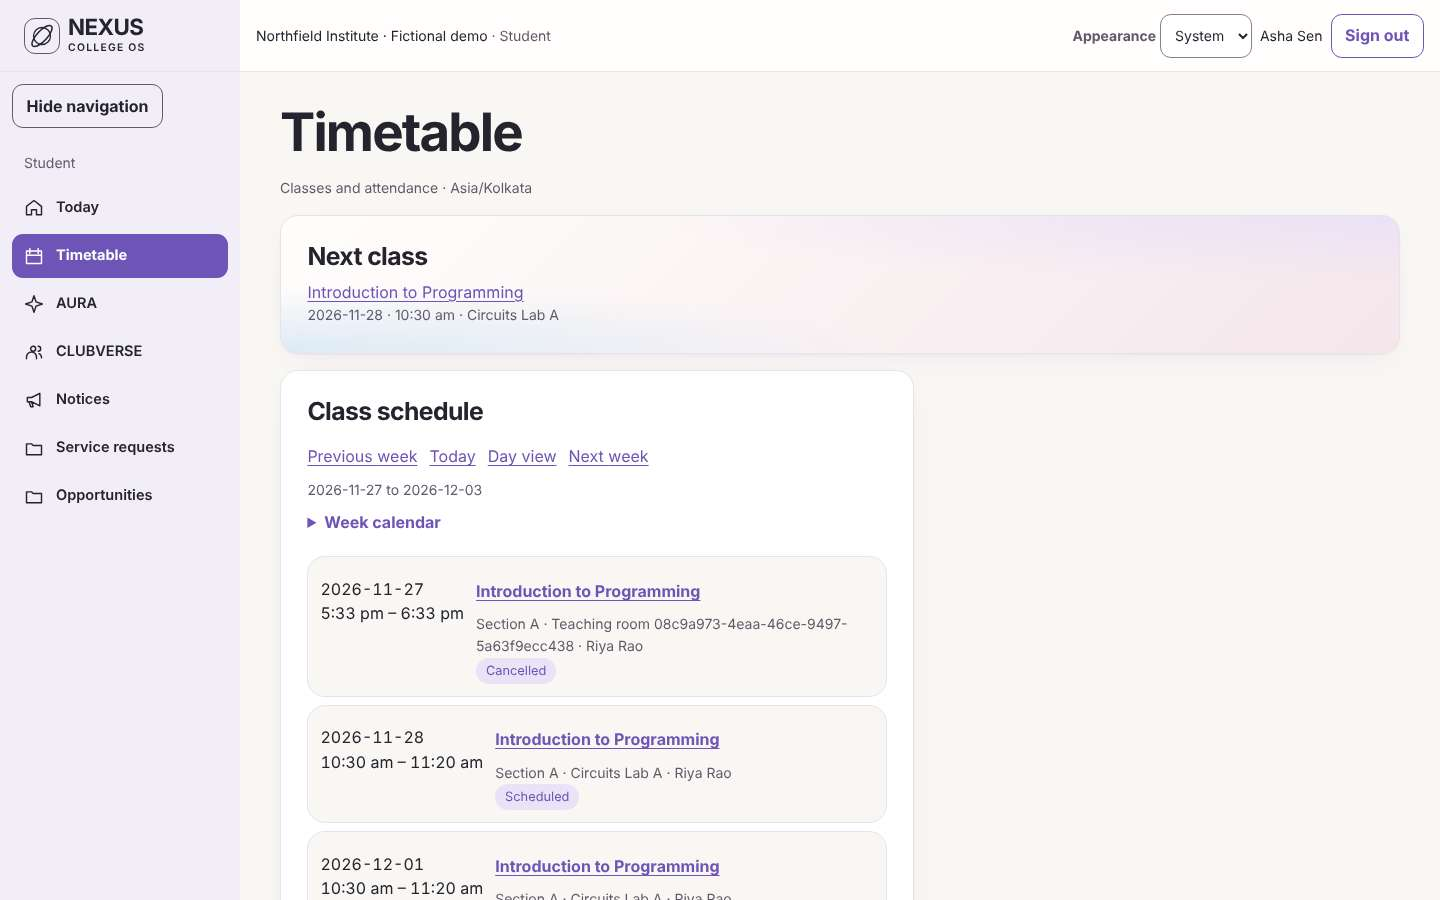
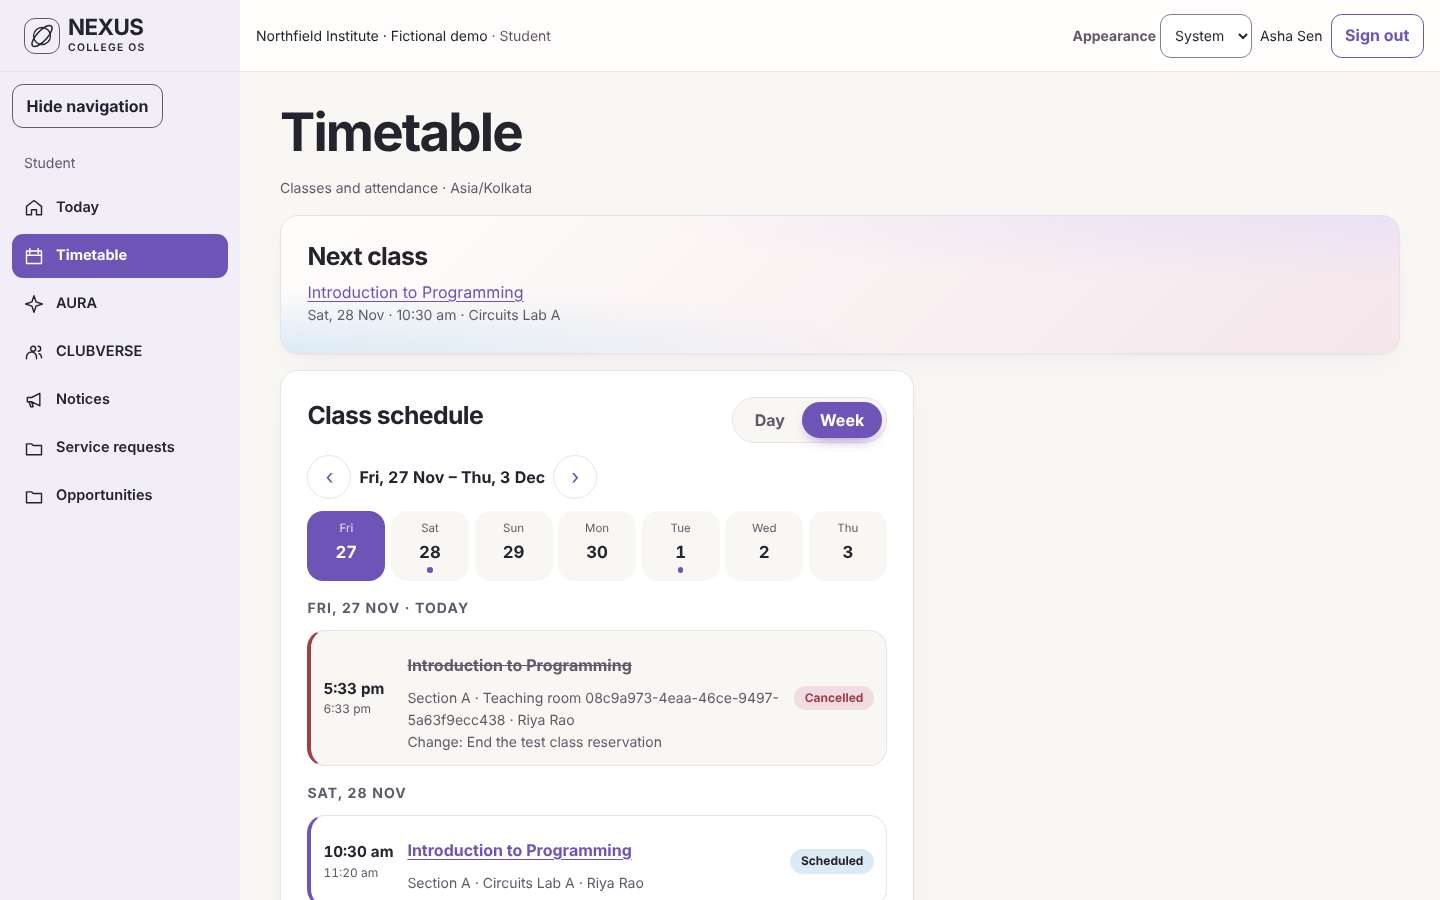
Rebuild the timetable around Board 03
Segmented day/week view, period stepper with readable dates, a seven-day
strip, a day-grouped time rail with explicit Now, cancelled, recorded and
draft states, and attendance rings with the planning target. URLs and
actions are unchanged.

Claude-Session: https://claude.ai/code/session_01Bxb4YCdiCMxcF1SCBS14xH

diff --git a/app/timetable/page.tsx b/app/timetable/page.tsx
@@ -11,6 +11,7 @@ import { planningOptions } from "../../lib/attendance-planning";
 import { AttendanceForecast } from "./forecast";
 import { timetableAction } from "./actions";
 import styles from "./timetable.module.css";
+import { ProgressRing } from "../experience/progress-ring";
 
 export default async function Timetable({searchParams}:{searchParams:Promise<Record<string,string|undefined>>}) {
   const params = await searchParams;
@@ -41,49 +42,60 @@ export default async function Timetable({searchParams}:{searchParams:Promise<Rec
     return `${date.format(instant)}T${clock.format(instant)}`;
   };
   const stateLabel = {draft:"Draft",published:"Scheduled",cancelled:"Cancelled",conducted:"Attendance recorded"};
+  const label = (localDay:string) => new Intl.DateTimeFormat("en-IN",{weekday:"short",day:"numeric",month:"short",timeZone:"UTC"}).format(new Date(localDay));
+  const now = new Date();
+  const groups = [...Map.groupBy(sessions, session => date.format(session.start))];
   return <Chrome user={user} current={current} section="/timetable"><div className={styles.page}>
     <header className={styles.hero}><h1>Timetable</h1><p className="meta">Classes and attendance · {timezone}</p></header>
     {upcoming && <section className={`panel ${styles.next}`} aria-labelledby="next-class">
       <h2 id="next-class">{upcoming.start<=new Date() ? "Class in progress" : "Next class"}</h2>
       <Link href={sessionLink(upcoming.id)}>{upcoming.course}</Link>
-      <p className="meta">{date.format(upcoming.start)} · {time.format(upcoming.start)} · {upcoming.room}</p>
+      <p className="meta">{label(date.format(upcoming.start))} · {time.format(upcoming.start)} · {upcoming.room}</p>
     </section>}
 
     <div className={styles.planner}>
       <section className="panel" aria-labelledby="class-schedule">
-        <h2 id="class-schedule">Class schedule</h2>
-        <nav className="row" aria-label="Timetable period">
-          <Link href={`${base}&day=${offset(-days)}&view=${days===1?"day":"week"}`}>Previous {days===1?"day":"week"}</Link>
-          <Link href={`${base}&day=${today}&view=day`}>Today</Link>
-          <Link href={`${base}&day=${day}&view=${days===1?"week":"day"}`}>{days===1?"Week view":"Day view"}</Link>
-          <Link href={`${base}&day=${offset(days)}&view=${days===1?"day":"week"}`}>Next {days===1?"day":"week"}</Link>
+        <div className={styles.scheduleHead}>
+          <h2 id="class-schedule">Class schedule</h2>
+          <nav className={styles.segmented} aria-label="Timetable view">
+            <Link href={`${base}&day=${day}&view=day`} aria-label="Day view" aria-current={days===1 ? "page" : undefined}>Day</Link>
+            <Link href={`${base}&day=${day}&view=week`} aria-label="Week view" aria-current={days===7 ? "page" : undefined}>Week</Link>
+          </nav>
+        </div>
+        <nav className={styles.period} aria-label="Timetable period">
+          <Link href={`${base}&day=${offset(-days)}&view=${days===1?"day":"week"}`} aria-label={`Previous ${days===1?"day":"week"}`}><span aria-hidden="true">‹</span></Link>
+          <p><time dateTime={day}>{label(day)}</time>{days===7 && <> – <time dateTime={offset(6)}>{label(offset(6))}</time></>}</p>
+          <Link href={`${base}&day=${offset(days)}&view=${days===1?"day":"week"}`} aria-label={`Next ${days===1?"day":"week"}`}><span aria-hidden="true">›</span></Link>
+          {day !== today && <Link className={styles.today} href={`${base}&day=${today}&view=day`}>Today</Link>}
         </nav>
-        <p className="meta">{day}{days===7 ? ` to ${offset(6)}` : ""}</p>
-        {days === 7 && <details className={styles.weekCalendar}>
-          <summary>Week calendar</summary>
-          <ol className={styles.week} aria-label="Week calendar by day">
-            {Array.from({length:7}, (_, index) => {
-              const localDay = offset(index);
-              const records = sessions.filter(session => date.format(session.start) <= localDay &&
-                date.format(new Date(session.finish.getTime()-1)) >= localDay);
-              const label = new Intl.DateTimeFormat("en-IN",{weekday:"short",day:"numeric",month:"short",timeZone:"UTC"}).format(new Date(localDay));
-              return <li key={localDay}>
-                <Link href={`${base}&day=${localDay}&view=day`} aria-current={localDay===today ? "date" : undefined}><time dateTime={localDay}>{label}</time></Link>
-                {records.length === 0 ? <span>No sessions</span> : <ul>{records.map(session=><li key={session.id}>
-                  <Link href={sessionLink(session.id)}>{session.course}</Link>
-                  <span>{time.format(session.start)} · {stateLabel[session.state]}</span>
-                </li>)}</ul>}
-              </li>;
-            })}
-          </ol>
-        </details>}
-        {sessions.length ? <ol className={styles.timeline}>{sessions.map(item=><li className={styles.session} key={item.id}>
-          <time dateTime={item.start.toISOString()}>{date.format(item.start)}<br/>{time.format(item.start)} – {time.format(item.finish)}</time>
-          <div><Link href={sessionLink(item.id)}>{item.course}</Link>
-            <p className="meta">{item.section} · {item.room} · {item.teacher}</p>
-            <span className="tag">{stateLabel[item.state]}{item.attendance ? ` · ${item.attendance}` : ""}</span>
-          </div>
-        </li>)}</ol> : <p>No classes in this period.</p>}
+        {days === 7 && <ol className={styles.strip} aria-label="Week calendar by day">
+          {Array.from({length:7}, (_, index) => {
+            const localDay = offset(index);
+            const count = sessions.filter(session => date.format(session.start) === localDay && session.state !== "cancelled").length;
+            const parts = new Intl.DateTimeFormat("en-IN",{weekday:"short",day:"numeric",timeZone:"UTC"}).formatToParts(new Date(localDay));
+            return <li key={localDay}>
+              <Link href={`${base}&day=${localDay}&view=day`} aria-current={localDay===today ? "date" : undefined}
+                aria-label={`${label(localDay)}: ${count ? `${count} class${count===1?"":"es"}` : "no classes"}`}>
+                <span>{parts.find(part=>part.type==="weekday")?.value}</span><strong>{parts.find(part=>part.type==="day")?.value}</strong>
+                <i data-count={Math.min(count,3)} aria-hidden="true" />
+              </Link>
+            </li>;
+          })}
+        </ol>}
+        {sessions.length ? <div className={styles.days}>{groups.map(([localDay, items]) => <section key={localDay} aria-label={label(localDay)}>
+          {days === 7 && <h3 className={styles.dayLabel}>{label(localDay)}{localDay === today ? " · Today" : ""}</h3>}
+          <ol className={styles.timeline}>{items.map(item=>{
+            const live = item.state === "published" && item.start <= now && now < item.finish;
+            return <li className={styles.session} key={item.id} data-state={item.state} data-live={live || undefined}>
+              <time dateTime={item.start.toISOString()}><strong>{time.format(item.start)}</strong><span>{time.format(item.finish)}</span></time>
+              <div><Link href={sessionLink(item.id)}>{item.course}</Link>
+                <p className="meta">{item.section} · {item.room} · {item.teacher}</p>
+                {item.change_reason && <p className="meta">Change: {item.change_reason}</p>}
+              </div>
+              <span className={styles.state} data-state={item.state}>{live ? "Now" : stateLabel[item.state]}{item.attendance ? ` · ${item.attendance === "present" ? "Present" : "Absent"}` : ""}</span>
+            </li>;
+          })}</ol>
+        </section>)}</div> : <p className={styles.empty}>No classes in this period.</p>}
       </section>
       {current.role==="admin" && <section className="panel">
         <h2>Draft a weekly series</h2>
@@ -135,8 +147,12 @@ export default async function Timetable({searchParams}:{searchParams:Promise<Rec
       <h2 id="attendance-title">My attendance</h2>
       <p className="meta">Present marks divided by classes with a recorded mark for you. Cancelled and unrecorded classes are excluded.</p>
       {summary.length ? <ul className="items">{summary.map(row=><li key={row.offering_id}>
-        <h3>{row.course} · {row.term}</h3><p className={styles.rate}>{attendancePercentage(row.present,row.recorded)}%</p>
-        <p>{row.present} of {row.recorded} recorded classes attended</p>
+        <div className={styles.attendanceRow}>
+          <ProgressRing value={row.present} total={row.recorded} target={row.target} label={`${row.course} attendance`} size={96} />
+          <div><h3>{row.course} · {row.term}</h3>
+            <p>{row.present} of {row.recorded} recorded classes attended · {attendancePercentage(row.present,row.recorded)}%</p>
+            {row.target != null && <p className="meta">Planning target {row.target}%</p>}</div>
+        </div>
         <AttendanceForecast present={row.present} recorded={row.recorded} target={row.target} source={row.source} />
       </li>)}</ul> : <p>No attendance recorded yet.</p>}
     </section>}

diff --git a/app/timetable/timetable.module.css b/app/timetable/timetable.module.css
@@ -34,3 +34,43 @@
 .week ul { margin-top: var(--space-2); }
 .week ul li { padding: var(--space-1); border-inline-start: 2px solid var(--accent); }
 .page .week ul a { border: 0; color: var(--accent); background: var(--tint); }
+
+/* Board 03: segmented view, period stepper, date strip and a time rail with explicit states. */
+.scheduleHead { display: flex; justify-content: space-between; align-items: center; gap: var(--space-3); flex-wrap: wrap; }
+.segmented { display: inline-flex; padding: .25rem; border-radius: 999px; background: var(--canvas); border: 1px solid var(--border); }
+.page .segmented a { min-height: 2.25rem; padding: 0 1.1rem; border-radius: 999px; text-decoration: none; font-weight: 650; color: var(--muted); }
+.page .segmented a[aria-current] { background: var(--accent); color: var(--on-accent); box-shadow: 0 6px 16px -8px var(--accent); }
+.period { display: flex; align-items: center; gap: var(--space-2); margin-top: var(--space-3); }
+.period p { margin: 0; font-weight: 650; font-variant-numeric: tabular-nums; }
+.page .period a[aria-label] { justify-content: center; width: 44px; border-radius: 50%; border: 1px solid var(--border); background: var(--surface); text-decoration: none; font-size: 1.3rem; }
+.page .period .today { margin-inline-start: auto; }
+.strip { list-style: none; padding: 0; margin: var(--space-3) 0 0; display: grid; grid-template-columns: repeat(7, minmax(0, 1fr)); gap: .35rem; }
+.page .strip a { display: grid; justify-items: center; gap: .1rem; padding: .5rem 0 .45rem; border-radius: 1rem; text-decoration: none; color: var(--ink); background: var(--canvas); border: 1px solid transparent; }
+.strip span { font-size: .72rem; color: var(--muted); }
+.strip strong { font-size: 1.05rem; font-variant-numeric: tabular-nums; }
+.strip i { display: block; height: .35rem; width: .35rem; border-radius: 50%; background: transparent; }
+.strip i:not([data-count="0"]) { background: var(--accent); box-shadow: .5rem 0 0 -.05rem transparent; }
+.page .strip a[aria-current] { background: var(--accent); color: var(--on-accent); }
+.page .strip a[aria-current] span { color: inherit; opacity: .85; }
+.page .strip a[aria-current] i:not([data-count="0"]) { background: var(--on-accent); }
+.days { display: grid; gap: var(--space-4); margin-top: var(--space-4); }
+.dayLabel { font-size: var(--text-meta); text-transform: uppercase; letter-spacing: .08em; color: var(--muted); margin: 0; }
+.session { grid-template-columns: 4.5rem minmax(0,1fr) auto; align-items: center; background: var(--surface); border-inline-start: 4px solid var(--accent); }
+.session time { display: grid; padding: 0; }
+.session time strong { font-size: .95rem; white-space: nowrap; }
+.session time span { white-space: nowrap; }
+.attendanceRow { display: flex; gap: var(--space-4); align-items: center; }
+.attendanceRow h3 { margin: 0 0 .2rem; }
+.session time span { font-size: .75rem; color: var(--muted); }
+.session[data-state="cancelled"] { border-inline-start-color: var(--danger); background: var(--canvas); }
+.session[data-state="cancelled"] a { text-decoration: line-through; color: var(--muted); }
+.session[data-state="conducted"] { border-inline-start-color: var(--success); }
+.session[data-state="draft"] { border-inline-start-style: dashed; }
+.session[data-live] { background: var(--lilac); }
+.state { justify-self: end; border-radius: 999px; padding: .2rem .65rem; font-size: .75rem; font-weight: 650; background: var(--sky); color: var(--ink); white-space: nowrap; }
+.state[data-state="cancelled"] { background: var(--rose); color: var(--danger); }
+.state[data-state="conducted"] { background: var(--sage); color: var(--success); }
+.state[data-state="draft"] { background: var(--peach); color: var(--warning); }
+.session[data-live] .state { background: var(--accent); color: var(--on-accent); }
+.empty { color: var(--muted); padding: var(--space-4); border: 1px dashed var(--border); border-radius: var(--radius-panel); text-align: center; }
+@media (max-width: 30rem) { .session { grid-template-columns: 4.6rem minmax(0,1fr); } .session time strong { font-size: .85rem; } .state { grid-column: 2; justify-self: start; } }

diff --git a/app/styles.css b/app/styles.css
@@ -95,7 +95,7 @@ body { margin: 0; }
 .app-sidebar { align-self: end; grid-row: 3; position: sticky; bottom: 0; z-index: 3; min-width: 0; background: var(--surface); border-top: 1px solid var(--border); padding-bottom: env(safe-area-inset-bottom); }
 .app-sidebar nav { display: grid; grid-auto-columns: minmax(0,1fr); grid-auto-flow: column; gap: var(--space-1); padding: var(--space-2); }
 .app-sidebar nav a, .more-trigger { display: flex; flex-direction: column; align-items: center; justify-content: center; text-align: center; min-height: 44px; padding: .25rem; font-size: .75rem; font-weight: 570; gap: .2rem; line-height: 1.2; border-radius: var(--radius-control); color: var(--ink); text-decoration: none; cursor: pointer; }
-.app-sidebar nav a[aria-current], .more-trigger[data-current="true"] { background: var(--sage); color: var(--accent); font-weight: 700; }
+.app-sidebar nav a[aria-current], .more-trigger[data-current="true"] { background: var(--lilac); color: var(--accent); font-weight: 700; }
 .app-sidebar nav a:hover, .more-trigger:hover { background: var(--tint); }
 .more-trigger span { height: 20px; line-height: 16px; letter-spacing: .12em; }
 .sidebar-role, .sidebar-toggle, #workspace-navigation .nav-secondary { display: none; }

diff --git a/app/experience/progress-ring.module.css b/app/experience/progress-ring.module.css
@@ -1,12 +1,12 @@
-.ring { position: relative; margin: 0; aspect-ratio: 1; flex: none; }
+.ring { position: relative; margin: 0; aspect-ratio: 1; flex: none; container-type: inline-size; }
 .ring svg { width: 100%; height: 100%; overflow: visible; }
 .track { fill: none; stroke: var(--lilac); stroke-width: 9; }
 .value { fill: none; stroke: var(--accent); stroke-width: 9; stroke-linecap: round; }
 .ring[data-met] .value { stroke: var(--success); }
 .target { stroke: var(--ink); stroke-width: 2.5; stroke-linecap: round; }
 .ring figcaption { position: absolute; inset: 0; display: grid; place-content: center; text-align: center; line-height: 1.15; }
-.ring strong { font-size: 1.2rem; font-weight: 700; font-variant-numeric: tabular-nums; letter-spacing: -.02em; }
-.ring span { font-size: .72rem; color: var(--muted); font-variant-numeric: tabular-nums; }
+.ring strong { font-size: 17cqi; font-weight: 700; font-variant-numeric: tabular-nums; letter-spacing: -.02em; }
+.ring span { font-size: 11cqi; color: var(--muted); font-variant-numeric: tabular-nums; }
 @media (prefers-reduced-motion: no-preference) {
   .value { animation: draw 600ms cubic-bezier(.2,.75,.25,1) both; }
   @keyframes draw { from { stroke-dasharray: 0 300; } }

diff --git a/tests/academic-day.e2e.ts b/tests/academic-day.e2e.ts
@@ -108,10 +108,9 @@ test("admin publishes a timetable and faculty posts a corrected attendance recor
     await expect(page.getByRole("heading",{name:"Timetable",exact:true})).toBeVisible();
     await page.goto(path("student",historical,oldSession));
 
-    await page.getByText("Week calendar",{exact:true}).click();
     const week = page.getByRole("list",{name:"Week calendar by day"});
     await expect(week.locator(":scope > li")).toHaveCount(7);
-    await expect(week.getByRole("link",{name:course}).first()).toBeVisible();
+    await expect(page.getByRole("region",{name:"Class schedule"}).getByRole("link",{name:course}).first()).toBeVisible();
     await week.locator(":scope > li").first().getByRole("link").first().press("Enter");
     await expect(page).toHaveURL(new RegExp("day="+historical+"&view=day"));
     await page.getByRole("link",{name:"Week view",exact:true}).press("Enter");

diff --git a/docs/NEXUS_ENGINEERING_LEDGER.md b/docs/NEXUS_ENGINEERING_LEDGER.md
@@ -31,3 +31,7 @@ Founder specs (not in repo): Master Handoff PDF, Engineering Reference Pack ZIP,
 - Verified: 49/49 PostgreSQL; affected Chromium suites pass in CI order; axe 0 violations light (88 pages) and dark phone (74 pages); no overflow. Evidence `docs/evidence/design-bible-slice-2026-11-27/`.
 - Found: e2e tests depend on PostgreSQL suite data (academic-day next-class, atmosphere work list); fail on fresh seed alone or with walkthrough fixtures.
 - Next: timetable Board 03 (segmented day/week, date strip, human dates, now marker, cancelled styling); chart kit; faculty/HOD/principal visual pass.
+
+### 2026-11-27 — Timetable Board 03 (SA-009, FC-004)
+- Day/Week segmented control, period stepper with readable dates, 7-day date strip with class dots, day-grouped time rail, explicit Now/Scheduled/Cancelled/Recorded/Draft states with change reasons, attendance rings with planning target.
+- Same URLs, links and actions; e2e updated for the strip. academic-day e2e passes on fresh seed; fails when walkthrough fixtures add an earlier class (test assumes it owns the next class) — fragile test, not a product defect.
